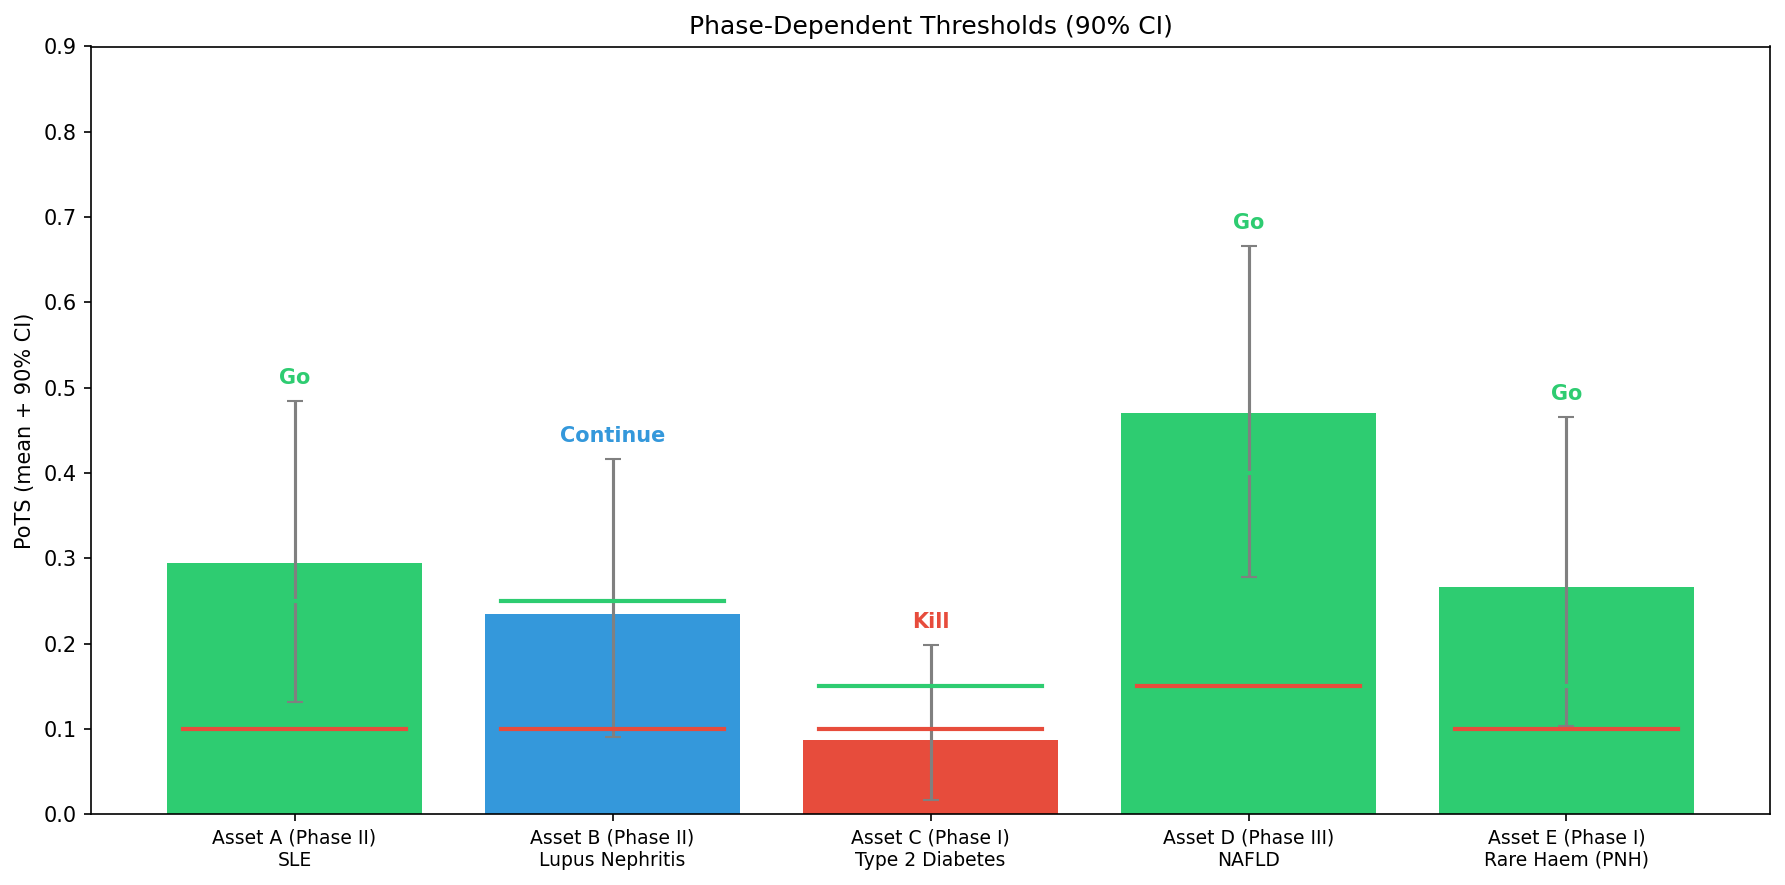
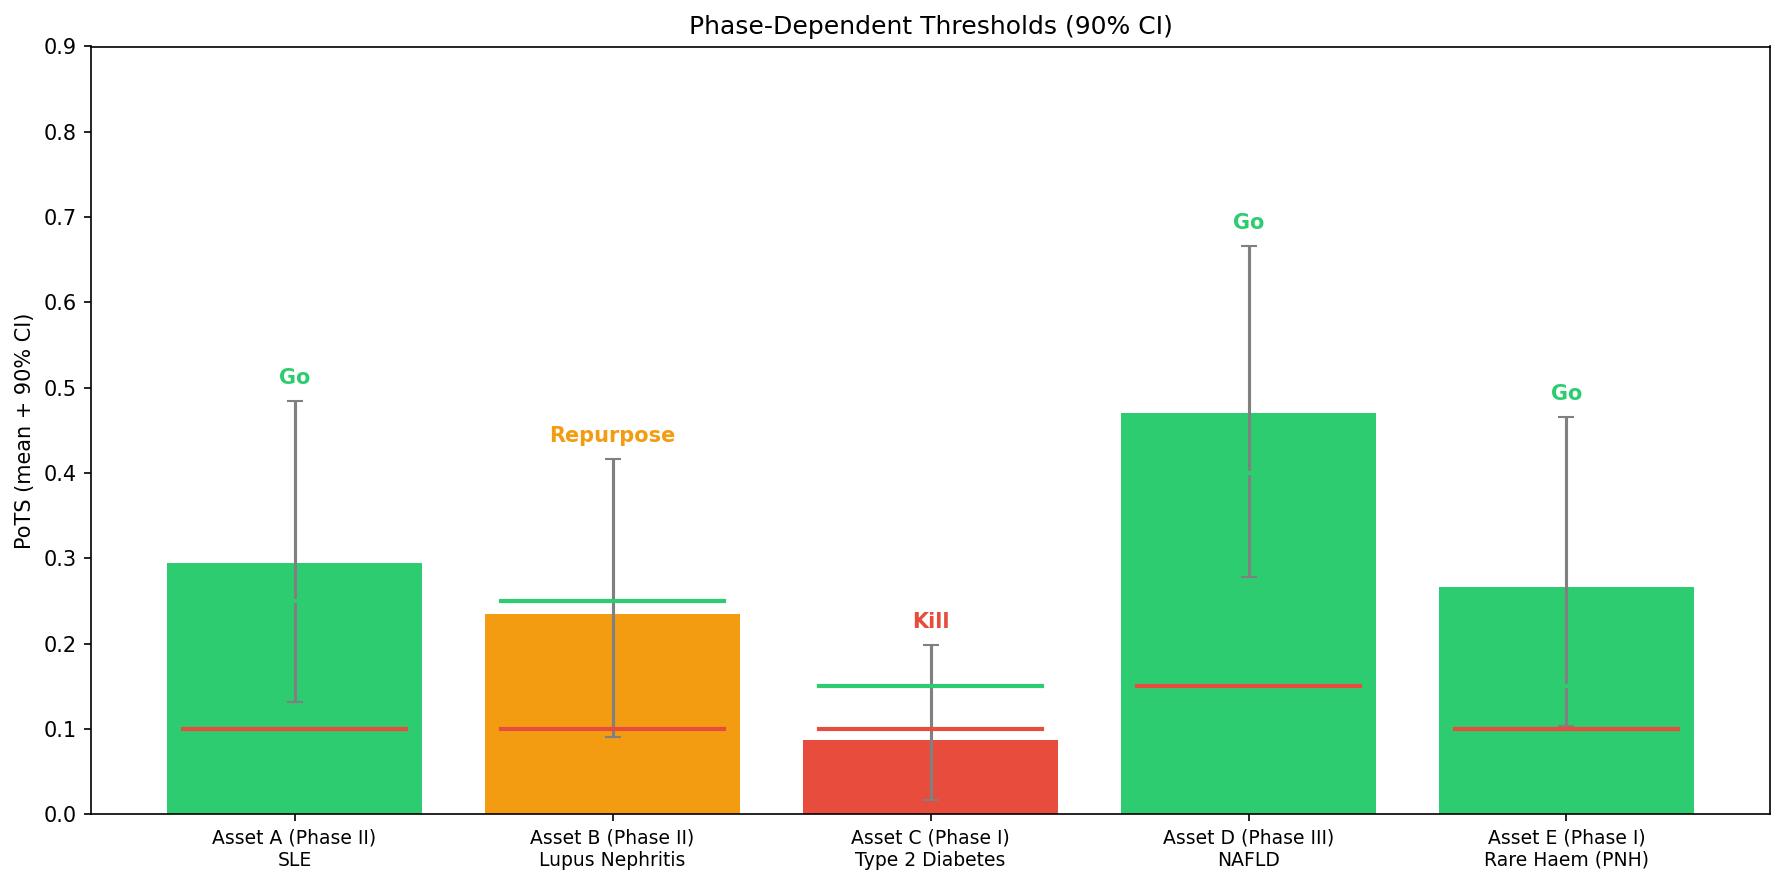
Remove SAFETY_BONUS magic multiplier; repurpose is now a Continue-zone pivot
- Repurpose logic: trigger on similarity_score >= 0.65 in Continue zone, not a PoTS-based condition inflated by an unsourced 1.4 multiplier
- Kill zone always kills (mean * similarity <= mean < kill_t by construction)
- Notebook re-executed, plots regenerated

Changed region(s): [[0.2465, 0.6712, 0.4314, 0.9458], [0.3081, 0.4576, 0.3697, 0.5186]]

diff --git a/engine.py b/engine.py
@@ -72,15 +72,10 @@ def smart_decision(assets: list[str], phases: list[str],
         kill_t = PHASE_THRESHOLDS[phase]['kill'] * thresh_scale
         go_t = PHASE_THRESHOLDS[phase]['go'] * thresh_scale
 
-        # Calculate Repurpose PoTS with a Safety De-risking Bonus (from literature)
-        # Repurposed drugs often have ~2-3x higher overall success because safety is de-risked.
-        SAFETY_BONUS = 1.4  # Conservative 40% boost for established safety/PK
-        
         candidates = repurpose_map[repurpose_map['asset'] == asset].copy()
         best_candidate = None
         if len(candidates) > 0:
-            # We apply the similarity score but also the safety bonus
-            candidates['repurpose_pots'] = np.minimum(0.95, mean[i] * candidates['similarity_score'] * SAFETY_BONUS)
+            candidates['repurpose_pots'] = mean[i] * candidates['similarity_score']
             best_candidate = candidates.loc[candidates['repurpose_pots'].idxmax()]
 
         # DECISION LOGIC:
@@ -88,19 +83,14 @@ def smart_decision(assets: list[str], phases: list[str],
         if mean[i] > go_t:
             dec, alt_ind, alt_pots, reason = 'Go', '-', None, '-'
 
-        # Kill: Posterior mean falls below the Kill threshold
+        # Kill: Posterior mean below kill threshold - no repurpose rescue
+        # (repurpose_pots = mean * similarity <= mean < kill_t, so any alt indication also fails)
         elif mean[i] < kill_t:
-            if best_candidate is not None and best_candidate['repurpose_pots'] > mean[i] * 1.2:
-                dec = 'Repurpose'
-                alt_ind = best_candidate['alt_indication']
-                alt_pots = best_candidate['repurpose_pots']
-                reason = best_candidate['reason']
-            else:
-                dec, alt_ind, alt_pots, reason = 'Kill', '-', None, '-'
+            dec, alt_ind, alt_pots, reason = 'Kill', '-', None, '-'
 
-        # Continue: between thresholds - keep running, gather more data
+        # Continue: between thresholds - pivot to alt indication if mechanistic overlap is strong
         else:
-            if best_candidate is not None and best_candidate['repurpose_pots'] > mean[i] * 1.2:
+            if best_candidate is not None and best_candidate['similarity_score'] >= 0.65:
                 dec = 'Repurpose'
                 alt_ind = best_candidate['alt_indication']
                 alt_pots = best_candidate['repurpose_pots']

diff --git a/CLAUDE.md b/CLAUDE.md
@@ -125,6 +125,7 @@ Do not report a task as complete unless the notebook executes cleanly and plots 
 - 2026-03-28: CI-upper-based kill (`hi < kill_t`) almost never fires with typical interim data - requires overwhelming evidence. Rule: use mean-based kill (`mean < kill_t`). Phase I kill threshold should be 0.10, not 0.05, when using mean-based criterion.
 - 2026-03-28: nbviewer caches aggressively - `?flush_cache=true` is unreliable. Rule: use GitHub native notebook renderer link instead of nbviewer.
 - 2026-03-28: Checked prior parameters wrong - assets.csv stores `prior_successes` and `prior_failures`, but notebook sets `alpha_prior = prior_successes + 1`. Always account for the +1 when computing expected posterior means from interim data.
+- 2026-03-29: Added `SAFETY_BONUS = 1.4` magic multiplier to repurpose PoTS with a vague "from literature" comment. Rule: no magic multipliers. If mean < kill_t, then mean * similarity_score < kill_t always - repurposing can't rescue a Kill-zone asset mathematically. Repurpose is a Continue-zone pivot: trigger when similarity_score >= 0.65, not when repurpose_pots clears an arbitrary bar.
 
 ---
 
